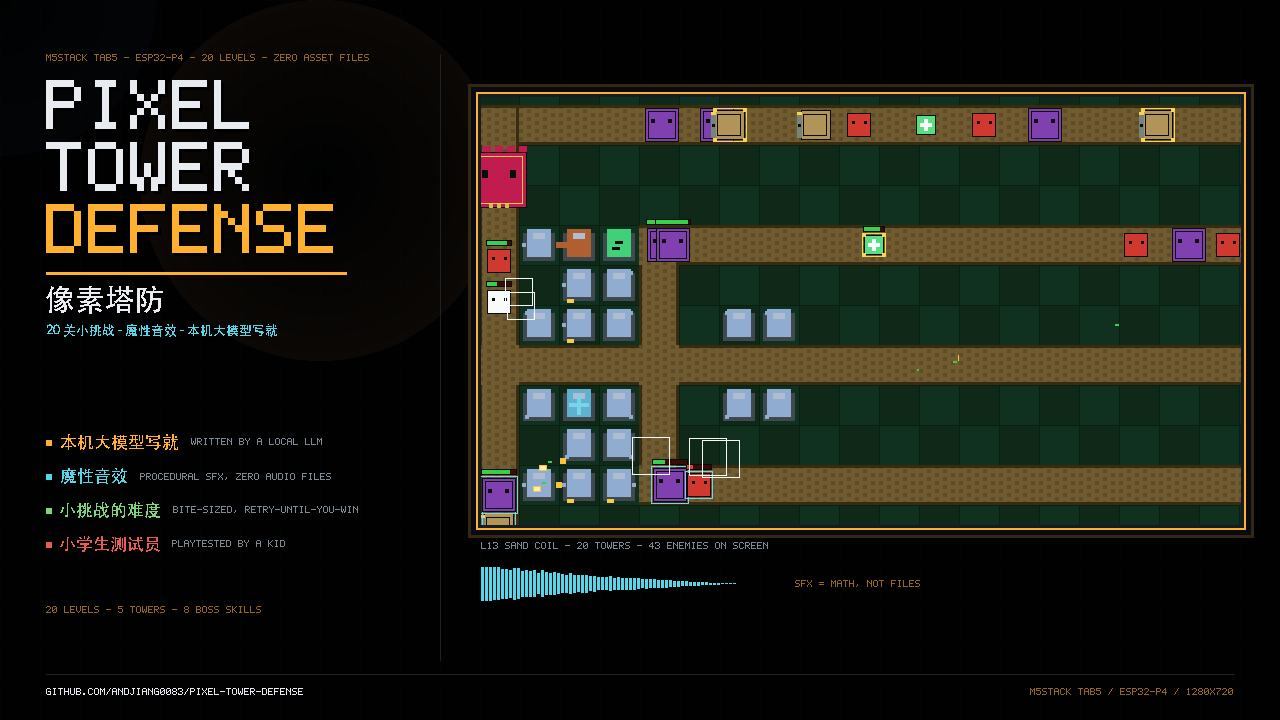
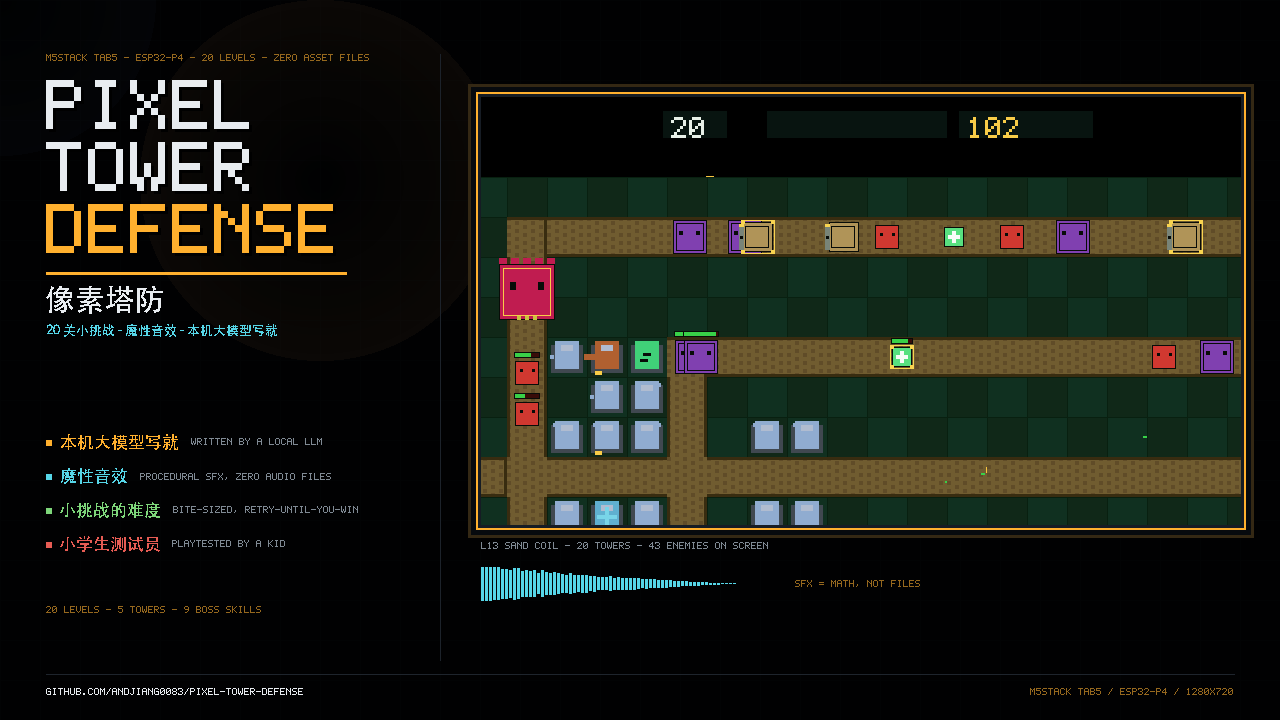
sim+docs: title-screen capture mode, ST_TITLE branch fix, v0.4.2 release assets
为 v0.4.2 商店封面准备物料时抓到的真缺陷 + 发布收尾：

1. sim/run.cpp 的 tick() 镜像了真机 loop 的 ST_SEL 静态分支，却漏了
   v0.4.2 新增的 ST_TITLE——真机在标题界面 delay(20); return;，仿真
   却继续 gameUpdate + renderFrame（第一张标题帧截图里混着上一局
   HUD 即此缺陷的症状）。已补 ST_TITLE 分支；renderFrame 开头加
   防御性早退（真机 loop 已挡，双保险）。
2. 新增 SIM_SHOT=title 截图模式：标题界面帧一键重出（商店封面 /
   README 截图用）。抓帧确认干净后存 docs/screenshots/title-screen.png，
   README/.CN 首图表格加入该帧。
3. mkposter.py 数值条 8 -> 9 BOSS SKILLS（v0.4.2 新增 SIEGE）；
   封面/海报用新战场帧（L13 w9）重生成，即 GitHub Release v0.4.2
   实际上传的两张图。

v0.4.2 tag/Release（指向 1155597）的 merged bin 不重打：renderFrame
早退在真机路径是死代码，行为逐字节等价。

文档同步到最新事实：FIXLOG-v0.4.2 §三/§五/§六（Release 已建、尾单
commit 说明）、HANDOFF-PROMPT 头部+§2 事实表+§4 待办+附录 A/B、
HANDOFF 状态块、CHANGELOG Under the hood 末条。

验证：sim 203 passed/0 failed；check_cnfont OK（92 字覆盖精确）；
layout GEN_EXIT=0。

Changed region(s): [[0.375, 0.1222, 0.9688, 0.7333]]

diff --git a/sim/run.cpp b/sim/run.cpp
@@ -56,9 +56,11 @@ static void tick(int frames) {
     g_simMs += 33;
     Tap t = readTap();                 // 真 touch.h：只有抬指那一帧 valid
     if (t.valid) handleTap(D, t);
-    // v0.4.1：镜像 main.cpp 选关分支——只推进输入/反馈，不跑世界也不渲染
-    // （旧仿真在 ST_SEL 也跑 renderFrame，会把 HUD 画到选关屏幕上，与真机不符）
+    // v0.4.2：镜像 main.cpp 的两个静态界面分支——只推进输入/反馈，
+    // 不跑世界也不渲染（ST_TITLE 下若走 renderFrame，会把上一局 HUD
+    // 画到标题界面上，与真机不符；标题帧截图就靠这条保持干净）
     if (g_w.state == ST_SEL) { updateSelFx(D); continue; }
+    if (g_w.state == ST_TITLE) continue;
     gameUpdate(33);                    // 真逻辑（面板打开=内部暂停）
     s_nowMs = g_simMs;                // v0.3.1：镜像 loop()——音效节流时钟
     sfxPump();                        // 仿真下排空队列（同份投递/节流代码）
@@ -302,9 +304,20 @@ static bool autoPlayLevel(int maxSimSeconds) {
   printf("  (timeout in autoPlay)\n"); return false;
 }
 
-// ── 截图模式：SIM_SHOT=<1..20> [SIM_SHOT_WAVE=<w>] [SIM_SHOT_OUT=<path>] ──
-// 真渲染 + bot 自动打到指定波次，抓"有塔有兵"的战场帧（README/商店封面用）。
-// 关掉长跑的 g_renderOn=false 逻辑：这里每帧都真画，所以帧缓冲就是当下画面。
+// ── 截图模式 ─────────────────────────────────────────────────────
+// SIM_SHOT=title                       → 抓开机标题界面（v0.4.2 起商店封面用）
+// SIM_SHOT=<1..20> [SIM_SHOT_WAVE=<w>] → 真渲染 + bot 自动打到指定波次，
+//   抓"有塔有兵"的战场帧（README/商店封面用）。关掉长跑的 g_renderOn=false
+//   逻辑：这里每帧都真画，所以帧缓冲就是当下画面。
+static void titleShotMode(const char* out) {
+  g_w.state = ST_TITLE;               // 标题界面 = 开机第一屏（main.cpp setup 同款）
+  g_renderOn = true;
+  drawTitle(D);                       // setup 里就是直接画一次
+  tick(2);                            // 让帧缓冲对齐当前时刻
+  dumpPpm(out);
+  printf("shot: title screen v0.4.2 -> %s\n", out);
+}
+
 static void shotMode(int lv, int waveTarget, const char* out) {
   levelLoad(lv);
   const int wt = waveTarget > 0 ? waveTarget : LV().waves;   // 0 = 打到最后波
@@ -348,8 +361,12 @@ int main(int argc, char** argv) {
   if (const char* s = getenv("SIM_SHOT")) {
     const char* wv = getenv("SIM_SHOT_WAVE");
     const char* out = getenv("SIM_SHOT_OUT");
+    if (strcmp(s, "title") == 0) {         // v0.4.2：标题界面帧
+      titleShotMode(out ? out : "shot_title.ppm");
+      return 0;
+    }
     int lv = atoi(s) - 1;
-    if (lv < 0 || lv >= LEVEL_COUNT) { printf("SIM_SHOT out of range (1..%d)\n", LEVEL_COUNT); return 2; }
+    if (lv < 0 || lv >= LEVEL_COUNT) { printf("SIM_SHOT out of range (1..%d or \"title\")\n", LEVEL_COUNT); return 2; }
     shotMode(lv, wv ? atoi(wv) : 0, out ? out : "shot.ppm");
     return 0;
   }

diff --git a/src/render.h b/src/render.h
@@ -658,6 +658,10 @@ static void closeTowerPanel(M5GFX* g) {
 
 // ── 每帧渲染主体：擦脏格 → 塔 → 敌人 → 子弹 → 特效 ──────────────
 static void renderFrame(M5GFX* g) {
+  // v0.4.2：标题界面是静态屏（真机 loop 在 ST_TITLE 直接 return，永不进来）。
+  // 这里是防御性早退：万一别的路径调到 renderFrame，也不会把世界/HUD
+  // 画到标题界面上（仿真曾因此把上一局 HUD 混进标题帧截图）。
+  if (g_w.state == ST_TITLE) return;
   eraseDirty(g);
 
   for (int i = 0; i < MAX_TOWERS; ++i) if (g_w.towers[i].active) drawTower(g, g_w.towers[i]);

diff --git a/tools/mkposter.py b/tools/mkposter.py
@@ -192,7 +192,7 @@ def build(frame_path, S, out_path, label):
         by += 34 * S
 
     # 数值条（与版本无关的固定卖点）
-    st = txt("20 LEVELS - 5 TOWERS - 8 BOSS SKILLS", S, AMBER_DIM, glyphs)
+    st = txt("20 LEVELS - 5 TOWERS - 9 BOSS SKILLS", S, AMBER_DIM, glyphs)
     img.paste(st, (x0, 606 * S), st)
 
     # 分隔竖线

diff --git a/docs/HANDOFF-PROMPT.md b/docs/HANDOFF-PROMPT.md
@@ -4,7 +4,7 @@
 > 聊天里若另有一版，以本文件为准（两份一漂移，下个会话就不知道听谁的）。
 > 状态块核实于 **2026-10-12 晚间 CST**，**覆盖本文下方及 `HANDOFF.md` 里更早的一切描述**。
 > **v0.4.1 已刷入真机并回读验证**（ESP32-P4 rev 1.3，2026-10-12；固件本体逐字节一致，NVS 旧存档按设计保留）。
-> **v0.4.2 已全部交付并发布到 GitHub**（2026-10-12 晚）：仿真 203 全绿、编译打包（merged 944,272 B / sha256 `b5e70110…d5f5`）、真机刷入（写后哈希校验 + 用户目视确认）、push 完成（`07eb037`+，CI 首跑红已修）。**仅剩 GitHub Release v0.4.2 等用户发话**（纪律：用户明确要求才建）。
+> **v0.4.2 已全部交付并发布到 GitHub**（2026-10-12 晚）：仿真 203 全绿、编译打包（merged 944,272 B / sha256 `b5e70110…d5f5`）、真机刷入（写后哈希校验 + 用户目视确认）、push 完成（`1155597`，CI 全绿）、**GitHub Release v0.4.2 已建**（tag `v0.4.2` → `1155597`，8 资产，远端 bin 下载回读 sha256 与本地一致）。发布链只剩 M5Burner 条目更新（vid `2109325922863968258`，审核中，需用户账号）与两棵本地树的合流。
 > **v0.4.1 / v0.4.2 两轮的档案（问题/修法/经验）在 [`FIXLOG-v0.4.1.md`](FIXLOG-v0.4.1.md) / [`FIXLOG-v0.4.2.md`](FIXLOG-v0.4.2.md)** —— 动手前先读 v0.4.2 那份。
 
 ---
@@ -45,13 +45,14 @@
 | 生成器与源码一致（无脏漂移） | `python3 tools/layout.py; echo GEN_EXIT=$?` | `GEN_EXIT=0`（v0.4.2 新增 SIEGE 三常量 + L11 ability=268） |
 | 中文点阵覆盖 i18n.h 汉字集 | `python3 tools/check_cnfont.py`（纯 stdlib，CI 同款） | 92 字，覆盖精确、几何合法（点阵字节跨平台不可复现——外部字体光栅化，CI 只查覆盖，见 FIXLOG-v0.4.2 P2-4） |
 | L14–L20 难度判据（v0.4.2 数据化） | `./sim/sim --x2scan` | **七关双倍金币全 PASS**（结余 3,296–7,619）= 经济卡死非输出结构性问题；未削弱任何数值；明细 `docs/PLAYTEST.md` |
-| 构建占用（最新源码） | `pio run -e tab5` | 见 README 验证表（v0.4.1 实数：RAM 37,016B / Flash 819,586B；**v0.4.2 未编译，跑完更新**） |
+| 构建占用（最新源码） | `pio run -e tab5` | **v0.4.2 实数：RAM 37,248 B（7.3%）/ Flash 833,808 B（26.5%）**（v0.4.1：37,016/819,586；沙箱拦最后一步 size 检查时用 `~/.platformio/penv/bin/python -m esptool elf2image --flash_mode dio` 补齐 firmware.bin） |
 | 发行镜像结构（Tab5 的 bootloader **在 0x2000，不是 0x0**） | `python3 -c "import pathlib;b=pathlib.Path('releases/pixel-tower-defense-v0.4.1-tab5-merged.bin').read_bytes();print(len(b),b[0x2000:0x2004].hex(),b[0x8000:0x8002].hex(),b[0x10000:0x10004].hex())"` | `929360 | boot e903024f | parts aa50 | app e907024f`（DIO） |
[1 lines of base64/hex data omitted]
-| 真机刷入+回读（2026-10-12） | `esptool.py --chip esp32p4 --port /dev/cu.usbmodem1101 --baud 460800 write_flash 0x0 releases/pixel-tower-defense-v0.4.1-tab5-merged.bin`，然后 `read_flash 0x0 929360` 回读 | **固件本体（0x0-0x8FFF / 0xE000-0xE2FFF）逐字节一致**，app 段 sha256 两侧同为 `682b739d…`；NVS 区（0x9000-0xDFFF）与镜像的 0xFF 空隙有 62 字节差=**旧存档被保留**（esptool 压缩写入跳过全 FF 块），开机横幅 `v0.4.1 | board=22 | 1280x720`，旧进度 `unlock=0007 cleared=0003` 被正确读入 |
[1 lines of base64/hex data omitted]
+| 真机刷入+回读（2026-10-12） | `esptool.py --chip esp32p4 --port /dev/cu.usbmodem1101 --baud 460800 write_flash 0x0 releases/pixel-tower-defense-v0.4.1-tab5-merged.bin`，然后 `read_flash 0x0 929360` 回读 | **固件本体（0x0-0x8FFF / 0xE000-0xE2FFF）逐字节一致**，app 段 sha256 两侧同为 `682b739d…`；NVS 区（0x9000-0xDFFF）与镜像的 0xFF 空隙有 62 字节差=**旧存档被保留**（esptool 压缩写入跳过全 FF 块），开机横幅 `v0.4.1 | board=22 | 1280x720`，旧进度 `unlock=0007 cleared=0003` 被正确读入。**v0.4.2 刷入（19:10）**：写后 Hash verified + 用户目视确认；完整 read_flash 因 P4 串口瞬断未取得全字节比对（如实记入 FIXLOG §三/§六，勿写成"逐字节一致"） |
 | 全新克隆能构建（唯一算数的"开源可用"承诺） | `git clone … /tmp/x && cd /tmp/x && pio run -e tab5` + `./sim/sim` | 已实测通过（165/0，占用同上） |
 | GitHub 已公开 | `curl -s https://api.github.com/repos/andjiang0083/pixel-tower-defense` | MIT / main / topics 已设 |
-| GitHub Release v0.4.1（8 资产，2026-10-12 发布） | `curl -s https://api.github.com/repos/andjiang0083/pixel-tower-defense/releases/latest` | `draft:false`，含 merged bin（929,360 B，sha256 `d018587b…`，已从 Release 实际下载回读比对一致）/ 封面 / 海报 / LICENSE / CREDITS / THIRD-PARTY-NOTICES |
+| GitHub Release v0.4.1（8 资产，2026-10-12 发布） | `curl -s https://api.github.com/repos/andjiang0083/pixel-tower-defense/releases/tags/v0.4.1` | `draft:false`，含 merged bin（929,360 B，sha256 `d018587b…`，已从 Release 实际下载回读比对一致）/ 封面 / 海报 / LICENSE / CREDITS / THIRD-PARTY-NOTICES |
+| **GitHub Release v0.4.2**（8 资产，2026-10-12 19:37 发布，id `410542219`） | `curl -s https://api.github.com/repos/andjiang0083/pixel-tower-defense/releases/tags/v0.4.2` | `draft:false`，tag `v0.4.2` → `1155597`；merged bin（944,272 B，sha256 `b5e70110…`，**已从 Release 实际下载回读比对一致**）/ 新封面（mkposter，数值条 9 技能）/ 新海报 / LICENSE / CREDITS / THIRD-PARTY-NOTICES / README_M5Burner |
 | M5Burner 已提交 | 登录态 `fetch('/api/v1/users/me/firmwares?pageSize=100')`（返回字段是 **`rows`**） | `PIXEL TOWER DEFENSE` · Tab5 · Games · **status=PENDING** · `fid=2109325922859773953` · `vid=2109325922863968258` |
 
 ### 3. 不许改的东西（这几条是用户拍板的设计约束，改之前必须先问）
@@ -65,11 +66,11 @@
 
 ### 4. 待办（按风险排：低风险在前，动构建/必须真机验证的单独列出）
 
-0. **【发布·大部分完成】v0.4.2 已编译打包、已刷真机、已 push**（2026-10-12 晚：merged 944,272 B / sha256 `b5e70110…d5f5`；刷入后 esptool 写后哈希校验 + 用户目视确认标题界面，完整回读因 P4 串口瞬断未取得；push `260d414..07eb037`，CI 首跑因 cn_font 字节漂移红——已改语义覆盖检查 `tools/check_cnfont.py` 并复推）。剩余：① **GitHub Release v0.4.2 等用户明确发话**（沿用 v0.4.1 纪律）；② 合回开发树 → `sync-public.sh` 单向同步；③ M5Burner 更新条目（vid `2109325922863968258`，审核中，仍指向 v0.4.0）。细节见 `docs/FIXLOG-v0.4.2.md` §三/§六。
+0. **【发布·v0.4.2 已完成】编译打包、刷真机、push、GitHub Release 全部完成**（2026-10-12 晚：merged 944,272 B / sha256 `b5e70110…d5f5`，四段头与 v0.4.0 一致；刷入后 esptool 写后哈希校验 + 用户目视确认标题界面，完整回读因 P4 串口瞬断未取得；push `260d414..07eb037`+`1155597`（CI 首跑因 cn_font 字节漂移红——已改语义覆盖检查 `tools/check_cnfont.py` 并复推，9 步骤全绿）；tag `v0.4.2` → `1155597` + Release id `410542219`，8 资产，远端 bin 下载回读 sha256 与本地一致）。剩余：① 合回开发树 → `sync-public.sh` 单向同步（两树还停在 v0.4.0）；② M5Burner 更新条目（vid `2109325922863968258`，审核中，仍指向 v0.4.0）。细节见 `docs/FIXLOG-v0.4.2.md` §三/§六。
 1. ~~【零风险·文档/数据】x2gold 扫描~~（**v0.4.2 已完成**：L14–L20 全 PASS = 经济卡死，明细 `docs/PLAYTEST.md`）。
 2. ~~无尽模式入口 UI~~（**v0.4.2 已完成**：L20 通关画面进无尽 + NVS 最高波次 + 仿真断言；引擎早 ready）。
 3. **【中风险·要真机】**真人试玩回收：请用户（或小学生）拿真机跑 L11–L20，记录"第几波崩、崩在哪条路"；顺带回收 v0.4.2 新界面（引导三步是否讲清、中文 HUD 可读性）。判据：能给出至少一关的真实失败波次与原因；据此调 `layout.py` 的经济/血量（改完 `GEN_EXIT=0` → 仿真 → 刷机）。**硬件现在就在线**。
-4. **【中风险·要真机+相机】**README 首图换成 **Tab5 真机实拍**（`docs/screenshots/` 现在全是仿真渲染图）。硬件在场即可拍；v0.4.2 的标题界面也值得拍一张。
+4. **【中风险·要真机+相机】**README 首图换成 **Tab5 真机实拍**（`docs/screenshots/` 现有仿真渲染图 + v0.4.2 标题界面仿真帧 `title-screen.png`；真机实拍仍缺）。硬件在场即可拍。
 5. **【等外部】**M5Burner 审核结果：过审后卡片状态变 `PUBLISHED`，回写 `publish.yaml` 的 `readback:` 与 `store-copy.json`。判据：`release.py --strict` 通过 + 回读接口里状态不再是 PENDING。
 6. **【可选·需要用户拍板】**是否把"本机模型写就"的过程细节（写成哪部分、提示词、返工率）单独写一篇博客/帖子——对外的话术要避开把模型名写进产品名（阿里商标风险）。
 
@@ -85,15 +86,17 @@
 
 ### 附录 A：30 秒体检（新会话开工第一件事）
 
-> v0.4.2 的改动在公开仓克隆的工作树里：`/Users/jiangweizhong/WorkBuddy/QQwbb/pixel-tower-defense`
-> （`git status` 有 M/?? 即 v0.4.2 未提交的改动）。跑下面命令前先确认自己在这个目录。
+> 项目就在公开仓克隆里：`/Users/jiangweizhong/WorkBuddy/QQwbb/pixel-tower-defense`
+> （v0.4.2 已全部提交推送并发布；工作树出现 M/?? 就是新改动）。跑命令前先确认在这个目录。
 
 ```bash
 cd /Users/jiangweizhong/WorkBuddy/QQwbb/pixel-tower-defense
 python3 tools/layout.py; echo "GEN_EXIT=$?"          # 期望 0
 g++ -std=c++17 -O2 -I sim/compat -I src sim/run.cpp -o sim/sim && ./sim/sim | tail -1   # 期望 203 passed, 0 failed
 ./sim/sim --x2scan | grep -c PASS                     # 期望 7（L14-L20 双倍金币）
-shasum -a 256 releases/pixel-tower-defense-v0.4.1-tab5-merged.bin   # 仍是 v0.4.1 的 d018587b…（v0.4.2 merged 尚未产出）
+python3 tools/check_cnfont.py                         # 期望 exit 0（中文字库覆盖 i18n.h 汉字集）
+shasum -a 256 releases/pixel-tower-defense-v0.4.2-tab5-merged.bin   # 期望 b5e70110…（=Release 远端回读值）
+git log --oneline -1 && git ls-remote origin -h refs/heads/main | cut -c1-7   # 两者应相同
 ```
 
 ### 附录 B：已被否决的方案（别再提，括号里是机制）
@@ -104,4 +107,4 @@ shasum -a 256 releases/pixel-tower-defense-v0.4.1-tab5-merged.bin   # 仍是 v0.
 - **把模型名写进产品名/商店标题**：商标风险，署名只放 `CREDITS.md` 与商店描述正文。
 - **M5Burner 只传 app-only 的 `firmware.bin`**：平台永远写 `0x0`，会盖掉 bootloader → 黑屏。必须传 merged（`firmware.factory.bin` 改名成 `-merged.bin`）。
 - **release 建好后再移动 tag 来"修正"指向**：删 tag 会让 release **异步**变 draft（API 当场读回还是已发布，几分钟后变 draft，`/releases/tags/<t>` 直接 404 → 对全世界不可见）。**根治：先 push 完最后一个提交，再建 release**；不得已动了 tag，就要 `PATCH {"draft": false}` 并在 +5s/+20s/+45s 三个时点、`/releases/<id>` 与 `/releases/tags/<t>` 两个口径都复读。
-- **"仿真里顺手截图"**：长跑模式关着渲染，跑完导出的帧缓冲是**关卡开局那一帧**（空棋盘）。要图必须走 `SIM_SHOT=<lv> SIM_SHOT_WAVE=<w> SIM_SHOT_OUT=<path>` 的真渲染模式（内含 `lives>=15` 守门，避免拍到"已经输了"的帧）。
+- **"仿真里顺手截图"**：长跑模式关着渲染，跑完导出的帧缓冲是**关卡开局那一帧**（空棋盘）。要图必须走 `SIM_SHOT=<lv> SIM_SHOT_WAVE=<w> SIM_SHOT_OUT=<path>` 的真渲染模式（内含 `lives>=15` 守门，避免拍到"已经输了"的帧）；标题界面用 `SIM_SHOT=title`（v0.4.2 新增，商店封面/README 标题截图即此模式产出）。

diff --git a/HANDOFF.md b/HANDOFF.md
@@ -29,9 +29,11 @@
 > 七关全 PASS = 经济卡死非结构问题）。抓修 3 个 uint8_t 截断真 bug（L11 王 SIEGE
 > 静默失效）+ SIEGE 持续/节拍混淆。仿真 **178 → 203**。**档案在
 > [`docs/FIXLOG-v0.4.2.md`](docs/FIXLOG-v0.4.2.md)**。
-> **v0.4.2 状态：已全部完成并推送 GitHub**（2026-10-12 晚，仿真 203、merged 944,272 B、
-> 真机刷入目视确认、CI 首跑红已修）。剩余仅 **GitHub Release v0.4.2 等用户发话**、
-> M5Burner 更新（审核中）、开发树 sync-public.sh 同步。详见
+> **v0.4.2 状态：已全部完成并发布**（2026-10-12 晚）：仿真 203、编译打包 merged 944,272 B
+> （sha256 `b5e70110…`）、真机刷入（写后哈希校验 + 用户目视确认）、push 完成（`1155597`，
+> CI 9 步骤全绿）、**GitHub Release v0.4.2 已建**（tag `v0.4.2` → `1155597`，8 资产，
+> 远端 bin 下载回读 sha256 一致）。剩余：M5Burner 更新（vid `2109325922863968258`，
+> 审核中）、开发树/镜像树 sync-public.sh 同步（两树还停在 v0.4.0）。详见
 > [`docs/FIXLOG-v0.4.2.md`](docs/FIXLOG-v0.4.2.md)。
 
 ---

diff --git a/README.md b/README.md
@@ -51,13 +51,17 @@ comes back.
 All of these are **real frames from the game's own renderer** (dumped by the PC
 simulator running the firmware sources, not mock-ups):
 
-| Level select | Level 13 SAND COIL |
+| Title screen (v0.4.2) | Level select |
 |---|---|
-| ![level select](docs/screenshots/level-select.png) | ![L13 combat](docs/screenshots/combat-l13-sand-coil.png) |
+| ![title screen](docs/screenshots/title-screen.png) | ![level select](docs/screenshots/level-select.png) |
 
-| Level 12 HAIRPIN RIDGE | All 20 maps (audit render) |
+| Level 13 SAND COIL | Level 12 HAIRPIN RIDGE |
 |---|---|
-| ![L12 combat](docs/screenshots/combat-l12-hairpin-ridge.png) | ![map sheet](docs/screenshots/maps-sheet.png) |
+| ![L13 combat](docs/screenshots/combat-l13-sand-coil.png) | ![L12 combat](docs/screenshots/combat-l12-hairpin-ridge.png) |
+
+| All 20 maps (audit render) | |
+|---|---|
+| ![map sheet](docs/screenshots/maps-sheet.png) | |
 
 ## Install
 

diff --git a/README_CN.md b/README_CN.md
@@ -58,13 +58,17 @@
 
 下面全是**游戏自己渲染出的真实画面**（PC 仿真跑固件源码导出，不是示意图）：
 
-| 选关界面 | 第 13 关 SAND COIL |
+| 标题界面（v0.4.2 新增） | 选关界面 |
 |---|---|
-| ![选关](docs/screenshots/level-select.png) | ![交火](docs/screenshots/combat-l13-sand-coil.png) |
+| ![标题界面](docs/screenshots/title-screen.png) | ![选关](docs/screenshots/level-select.png) |
 
-| 第 12 关 HAIRPIN RIDGE | 20 张地图总览（审计渲染） |
+| 第 13 关 SAND COIL | 第 12 关 HAIRPIN RIDGE |
 |---|---|
-| ![交火](docs/screenshots/combat-l12-hairpin-ridge.png) | ![地图总览](docs/screenshots/maps-sheet.png) |
+| ![交火](docs/screenshots/combat-l13-sand-coil.png) | ![交火](docs/screenshots/combat-l12-hairpin-ridge.png) |
+
+| 20 张地图总览（审计渲染） | |
+|---|---|
+| ![地图总览](docs/screenshots/maps-sheet.png) | |
 
 ## 安装
 

diff --git a/CHANGELOG.md b/CHANGELOG.md
@@ -50,6 +50,11 @@ Under the hood:
   for *coverage* (every character in the string table has a glyph) — pixel
   bitmaps are rasterised from a system font and cannot be byte-identical
   across machines, so the semantic invariant is what CI enforces.
+- The simulator mirrors the device's `ST_TITLE` static branch (it used to keep
+  simulating and rendering the world behind the title screen), gained a
+  `SIM_SHOT=title` capture mode, and `renderFrame` defends against the state.
+  Cover art regenerated: title screenshot in the READMEs, 9 boss skills on
+  the poster stat bar.
 
 ## v0.4.1 — the fixes you feel only after an hour of play
 
